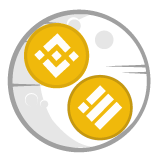
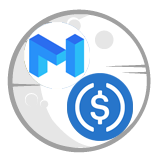
change for polygon

Changed region(s): [[0.125, 0.125, 0.8438, 0.9062]]

diff --git a/src/config/constants/farms.ts b/src/config/constants/farms.ts
@@ -3,33 +3,37 @@ import { FarmConfig, QuoteToken } from './types'
 
 const farms: FarmConfig[] = [
   {
-    pid: 0,
+    pid: 1,
     risk: 5,
-    lpSymbol: 'Mumu-BUSD LP',
+    lpSymbol: 'Mumu-USDC LP',
     lpAddresses: {
       97: '0x383489bD934B077Ac0b3A9325E73BF72D9835AdA',
       56: '0xA0B0923621b5CFa654145604E286CA813C3C661B',
+      137: '0x72B54aa780D88684A24F53C09D6f85645780fa31'
     },
     tokenSymbol: 'Mumu',
     tokenAddresses: {
       97: '0x47572493C7DD70653940Dff6444897712a007EDC',
       56: '0x3bdbbf63fbed8550dd630f67fc5e4c2ac4ddc42b',
+      137: '0xdBF2d59f590eD72e647d1ea1E99417995B9C9368'
     },
     quoteTokenSymbol: QuoteToken.BUSD,
     quoteTokenAddresses: contracts.busd,
   },
   {
-    pid: 1,
+    pid: 0,
     risk: 5,
-    lpSymbol: 'Mumu-BNB LP',
+    lpSymbol: 'Mumu-Matic LP',
     lpAddresses: {
       97: '0xa40f90E8e60928eB56FEa610D0591D776ab54CC6',
       56: '0xD99Caa5110Bf465B05cdef0690Db0771732d937F',
+      137: '0xcD67C60265f8EcC27fbc68595C26565F4FF41f4c'
     },
     tokenSymbol: 'Mumu',
     tokenAddresses: {
       97: '0x47572493C7DD70653940Dff6444897712a007EDC',
       56: '0x3bdbbf63fbed8550dd630f67fc5e4c2ac4ddc42b',
+      137: '0xdBF2d59f590eD72e647d1ea1E99417995B9C9368'
     },
     quoteTokenSymbol: QuoteToken.BNB,
     quoteTokenAddresses: contracts.wbnb,
@@ -37,15 +41,17 @@ const farms: FarmConfig[] = [
   {
     pid: 2,
     risk: 3,
-    lpSymbol: 'BNB-BUSD LP',
+    lpSymbol: 'Matic-USDC LP',
     lpAddresses: {
       97: '0xa79fe8865fb3c3c053ee63ba8b7f90dda5c3f334',
       56: '0x83166DaF1a93F7C8B31c4e09Cc85316a37dC2451',
+      137: '0x6e7a5FAFcec6BB1e78bAE2A1F0B612012BF14827'
     },
     tokenSymbol: 'BNB',
     tokenAddresses: {
       97: '0xae13d989dac2f0debff460ac112a837c89baa7cd',
       56: '0xbb4cdb9cbd36b01bd1cbaebf2de08d9173bc095c',
+      137: '0x0d500b1d8e8ef31e21c99d1db9a6444d3adf1270'
     },
     quoteTokenSymbol: QuoteToken.BUSD,
     quoteTokenAddresses: contracts.busd,
@@ -58,49 +64,17 @@ const farms: FarmConfig[] = [
     lpAddresses: {
       97: '0x383489bD934B077Ac0b3A9325E73BF72D9835AdA',
       56: '0xA0B0923621b5CFa654145604E286CA813C3C661B', // EGG-BUSD LP
+      137: '0x72B54aa780D88684A24F53C09D6f85645780fa31'
     },
     tokenSymbol: 'Mumu',
     tokenAddresses: {
       97: '0x47572493C7DD70653940Dff6444897712a007EDC',
       56: '0x3bdbbf63fbed8550dd630f67fc5e4c2ac4ddc42b',
+      137: '0xdBF2d59f590eD72e647d1ea1E99417995B9C9368'
     },
     quoteTokenSymbol: QuoteToken.BUSD,
     quoteTokenAddresses: contracts.busd,
-  },
-  {
-    pid: 4,
-    risk: 4,
-    isTokenOnly: true,
-    lpSymbol: 'BANANA',
-    lpAddresses: {
-      97: '',
-      56: '0x93f180636f42EFb0aD2BF7e0C945e2De652321c3', // BANANA-BUSD LP
-    },
-    tokenSymbol: 'BANANA',
-    tokenAddresses: {
-      97: '',
-      56: '0x603c7f932ed1fc6575303d8fb018fdcbb0f39a95',
-    },
-    quoteTokenSymbol: QuoteToken.BUSD,
-    quoteTokenAddresses: contracts.busd,
-  },
-  {
-    pid: 5,
-    risk: 4,
-    isTokenOnly: true,
-    lpSymbol: 'CAKE',
-    lpAddresses: {
-      97: '',
-      56: '0x0ed8e0a2d99643e1e65cca22ed4424090b8b7458', // CAKE-BUSD LP
-    },
-    tokenSymbol: 'CAKE',
-    tokenAddresses: {
-      97: '',
-      56: '0x0e09fabb73bd3ade0a17ecc321fd13a19e81ce82',
-    },
-    quoteTokenSymbol: QuoteToken.BUSD,
-    quoteTokenAddresses: contracts.busd,
-  },
+  }
 ]
 
 export default farms

diff --git a/src/state/farms/fetchFarms.ts b/src/state/farms/fetchFarms.ts
@@ -5,6 +5,7 @@ import multicall from 'utils/multicall'
 import { getMasterChefAddress } from 'utils/addressHelpers'
 import farmsConfig from 'config/constants/farms'
 import { QuoteToken } from '../../config/constants/types'
+import contracts from '../../config/constants/contracts'
 
 const CHAIN_ID = process.env.REACT_APP_CHAIN_ID
 
@@ -65,7 +66,12 @@ const fetchFarms = async () => {
         if(farmConfig.tokenSymbol === QuoteToken.BUSD && farmConfig.quoteTokenSymbol === QuoteToken.BUSD){
           tokenPriceVsQuote = new BigNumber(1);
         }else{
-          tokenPriceVsQuote = new BigNumber(quoteTokenBlanceLP).div(new BigNumber(tokenBalanceLP));
+          let quoteTokenBlanceLP1 = new BigNumber(quoteTokenBlanceLP);
+          if(quoteTokenDecimals < 18)
+          {
+            quoteTokenBlanceLP1 = quoteTokenBlanceLP1.times(new BigNumber(10).pow(18-quoteTokenDecimals));
+          }
+          tokenPriceVsQuote = new BigNumber(quoteTokenBlanceLP1).div(new BigNumber(tokenBalanceLP));
         }
         lpTotalInQuoteToken = tokenAmount.times(tokenPriceVsQuote);
       }else{
@@ -81,6 +87,7 @@ const fetchFarms = async () => {
 
         // Amount of token in the LP that are considered staking (i.e amount of token * lp ratio)
         tokenAmount = new BigNumber(tokenBalanceLP).div(new BigNumber(10).pow(tokenDecimals)).times(lpTokenRatio)
+
         const quoteTokenAmount = new BigNumber(quoteTokenBlanceLP)
           .div(new BigNumber(10).pow(quoteTokenDecimals))
           .times(lpTokenRatio)
@@ -88,7 +95,12 @@ const fetchFarms = async () => {
         if(tokenAmount.comparedTo(0) > 0){
           tokenPriceVsQuote = quoteTokenAmount.div(tokenAmount);
         }else{
-          tokenPriceVsQuote = new BigNumber(quoteTokenBlanceLP).div(new BigNumber(tokenBalanceLP));
+          let quoteTokenBlanceLP1 = new BigNumber(quoteTokenBlanceLP);
+          if(quoteTokenDecimals < 18)
+          {
+            quoteTokenBlanceLP1 = quoteTokenBlanceLP1.times(new BigNumber(10).pow(18-quoteTokenDecimals));
+          }
+          tokenPriceVsQuote = new BigNumber(quoteTokenBlanceLP1).div(new BigNumber(tokenBalanceLP));
         }
       }
 

diff --git a/src/config/constants/contracts.ts b/src/config/constants/contracts.ts
@@ -2,45 +2,56 @@ export default {
   cake: {
     56: '0x3bdbbf63fbed8550dd630f67fc5e4c2ac4ddc42b',
     97: '0x47572493C7DD70653940Dff6444897712a007EDC',
+    137: '0xdBF2d59f590eD72e647d1ea1E99417995B9C9368'
   },
   masterChef: {
     56: '0x7AF4e543609AbB95b4Cef53f9BDf6a5714B7e9D7',
     97: '0xC6e0DCDB10304dd3dC29748AccF45ED3B2e72D51',
+    137: '0xcbb649194068C95902456928C4007A3a1a69A6c7',
   },
   wbnb: {
     56: '0xbb4CdB9CBd36B01bD1cBaEBF2De08d9173bc095c',
     97: '0xae13d989dac2f0debff460ac112a837c89baa7cd',
+    137: '0x0d500b1d8e8ef31e21c99d1db9a6444d3adf1270'
   },
   lottery: {
     56: '0x3962139475af84199c54D8B4840Ac4600870Bb97',
     97: '0x1Bced8f36247bF555E8EA455327F425a8587C650',
+    137: '0x970658f76ea349f014AF01aE2b9b22DF4ca9281a'
   },
   lotteryNFT: {
     56: '0xC1Fc7fc0F89a1A4f0756b0A1DAe1217E0abBb159',
     97: '0x6cb680029D3d4DD59c26E3dfd4459788806d50B2',
+    137: '0xB3A8BE9c618631b5Cc215716AdaF2F0d8415f0d0'
   },
   mulltiCall: {
     56: '0x1ee38d535d541c55c9dae27b12edf090c608e6fb',
     97: '0x67ADCB4dF3931b0C5Da724058ADC2174a9844412',
+    137: '0x11ce4B23bD875D7F5C6a31084f55fDe1e9A87507'
   },
   busd: {
     56: '0xe9e7cea3dedca5984780bafc599bd69add087d56',
     97: '0xD500E3CF845CC41ABa54bB1dD426bD3485bD8Cd5',
+    137: '0x2791bca1f2de4661ed88a30c99a7a9449aa84174'
   },
   pancakepair1: {
     56: '0xD99Caa5110Bf465B05cdef0690Db0771732d937F',// TOKEN-BNB LP
     97: '0xa40f90E8e60928eB56FEa610D0591D776ab54CC6',
+    137: '0xcD67C60265f8EcC27fbc68595C26565F4FF41f4c'
   },
   pancakepair2: {
     56: '0xA0B0923621b5CFa654145604E286CA813C3C661B',// TOKEN-BUSD LP
     97: '0x383489bD934B077Ac0b3A9325E73BF72D9835AdA',
+    137: '0x72B54aa780D88684A24F53C09D6f85645780fa31'
   },
   referral: {
     56: '0xA73a2dc6BB3DB6FaaF156D45675eFd4849c8cc01',
     97: '0x8E5468F91cC6BFCfB6f1C5DF0b27263276084426',
+    137: '0x9A1fEcC39d9EdB8bE21F76EA0A95395FA4794cE1'
   },
   gettingtime: {
     56: '0xdE2488b53468eBF4aeF566719817dDe0231aF466',
     97: '0x61C4eC1435967BcE357069E876978E4c599EF90D',
+    137: '0x09eA1740fEb529BF84510BE8E693Be195c07C200'
   },
 }

diff --git a/src/views/Farms/components/FarmCard/DetailsSection.tsx b/src/views/Farms/components/FarmCard/DetailsSection.tsx
@@ -49,7 +49,7 @@ const DetailsSection: React.FC<ExpandableSectionProps> = ({
 }) => {
   const TranslateString = useI18n()
   const liquidityUrlPathParts = getLiquidityUrlPathParts({ quoteTokenAdresses, quoteTokenSymbol, tokenAddresses })
-  const buyUrl = (pid === -1?`https://exchange.pancakeswap.finance/#/add/${liquidityUrlPathParts}`:`https://trade.mumuswap.finance/#/add/${liquidityUrlPathParts}`)
+  const buyUrl = (pid === -1?`https://quickswap.exchange/#/add/${liquidityUrlPathParts}`:`https://quickswap.exchange/#/add/${liquidityUrlPathParts}`)
 
   return (
     <Wrapper>
@@ -57,7 +57,7 @@ const DetailsSection: React.FC<ExpandableSectionProps> = ({
         <Text>{TranslateString(316, 'Stake')}:</Text>
         <StyledLinkExternal href={
           isTokenOnly ?
-            `https://trade.mumuswap.finance/#/swap/${tokenAddresses[process.env.REACT_APP_CHAIN_ID]}`
+            `https://quickswap.exchange/#/swap/${tokenAddresses[process.env.REACT_APP_CHAIN_ID]}`
             :
           buyUrl
         }>
@@ -72,7 +72,7 @@ const DetailsSection: React.FC<ExpandableSectionProps> = ({
       )}
       <Flex justifyContent="center">
         <Link external href={bscScanAddress} bold={false}>
-          {TranslateString(356, 'View on BscScan')}
+          View on Polygon
         </Link>
       </Flex>
     </Wrapper>

diff --git a/src/views/Ifos/CurrentIfo.tsx b/src/views/Ifos/CurrentIfo.tsx
@@ -52,10 +52,10 @@ const Ifo = () => {
             <li>{TranslateString(598, 'Get CAKE-BNB LP tokens by adding CAKE and BNB liquidity')}</li>
           </List>
           <Flex mb="16px">
-            <LinkExternal href="https://trade.mumuswap.finance/#/swap" mr="16px">
+            <LinkExternal href="https://quickswap.exchange/#/swap" mr="16px">
               {TranslateString(999, 'Buy cake')}
             </LinkExternal>
-            <LinkExternal href="https://trade.mumuswap.finance/#/add/ETH/0x0E09FaBB73Bd3Ade0a17ECC321fD13a19e81cE82">
+            <LinkExternal href="https://quickswap.exchange/#/add/ETH/0x0E09FaBB73Bd3Ade0a17ECC321fD13a19e81cE82">
               {TranslateString(999, 'Get LP tokens')}
             </LinkExternal>
           </Flex>

diff --git a/src/views/Farms/components/FarmCard/FarmCard.tsx b/src/views/Farms/components/FarmCard/FarmCard.tsx
@@ -225,9 +225,9 @@ const FarmCard: React.FC<FarmCardProps> = ({ farm, removed, cakePrice, bnbPrice,
           isTokenOnly={farm.isTokenOnly}
           bscScanAddress={
             farm.isTokenOnly ?
-              `https://bscscan.com/token/${farm.tokenAddresses[process.env.REACT_APP_CHAIN_ID]}`
+              `https://polygonscan.com/token/${farm.tokenAddresses[process.env.REACT_APP_CHAIN_ID]}`
               :
-              `https://bscscan.com/token/${farm.lpAddresses[process.env.REACT_APP_CHAIN_ID]}`
+              `https://polygonscan.com/token/${farm.lpAddresses[process.env.REACT_APP_CHAIN_ID]}`
           }
           totalValueFormated={totalValueFormated}
           lpLabel={lpLabel}

diff --git a/src/components/Menu/config.ts b/src/components/Menu/config.ts
@@ -23,11 +23,11 @@ const config: MenuEntry[] = [
     items: [
       {
         label: 'Exchange',
-        href: 'https://trade.mumuswap.finance/#/swap'
+        href: 'https://quickswap.exchange/#/swap'
       },
       {
         label: 'Liquidity',
-        href: 'https://trade.mumuswap.finance/#/pool'
+        href: 'https://quickswap.exchange/#/pool'
       }
     ]
   },
@@ -69,7 +69,7 @@ const config: MenuEntry[] = [
     items: [
       {
         label: 'BscScan',
-        href: 'https://bscscan.com/address/'.concat(getCakeAddress()),
+        href: 'https://polygonscan.com/address/'.concat(getCakeAddress()),
       }
     ],
   },

diff --git a/src/views/Lottery/components/WinningNumbers.tsx b/src/views/Lottery/components/WinningNumbers.tsx
@@ -57,7 +57,7 @@ const WinningNumbers: React.FC = () => {
                 </CenteredTextWithPadding>
               </RowNoPadding>
             </Column>
-            <Link href="https://bscscan.com/" target="_blank" style={{color:colors.primary,fontSize:"16px",textAlign:"center" }}>
+            <Link href="https://polygonscan.com/" target="_blank" style={{color:colors.primary,fontSize:"16px",textAlign:"center" }}>
               {TranslateString(448, 'Export recent winning numbers')}
             </Link>
           </StyledCardContentInner>

diff --git a/src/views/Home/components/LPWorth.tsx b/src/views/Home/components/LPWorth.tsx
@@ -51,7 +51,7 @@ const LPWorth = () => {
       <div style={{width: "80%",margin: "0 auto", marginTop: "3em"}}>
       <ItemDiv>
         <LabelDiv>
-          Mumu-BNB
+          Mumu-Matic
         </LabelDiv>
         <ValueDiv>
           ${ showlpprice1 !== 'NaN'?showlpprice1:0 }
@@ -60,7 +60,7 @@ const LPWorth = () => {
       </ItemDiv>
         <ItemDiv>
           <LabelDiv>
-            Mumu-BUSD
+            Mumu-USDC
           </LabelDiv>
           <ValueDiv>
             ${ showlpprice2 !== 'NaN'?showlpprice2:0 }

diff --git a/src/views/Ifos/components/IfoCard/IfoCardTime.tsx b/src/views/Ifos/components/IfoCard/IfoCardTime.tsx
@@ -49,7 +49,7 @@ const IfoCardTime: React.FC<IfoCardTimeProps> = ({ isLoading, status, secondsUnt
   return (
     <Details>
       <Countdown>{`${timeUntil.days}d, ${timeUntil.hours}h, ${timeUntil.minutes}m until ${suffix}`}</Countdown>
-      <Link href={`https://bscscan.com/block/countdown/${block}`} target="blank" rel="noopener noreferrer" ml="8px">
+      <Link href={`https://polygonscan.com/block/countdown/${block}`} target="blank" rel="noopener noreferrer" ml="8px">
         (blocks)
       </Link>
     </Details>

diff --git a/src/api/lottery/singleLottery.ts b/src/api/lottery/singleLottery.ts
@@ -40,7 +40,7 @@ export const Lottery = async (
     lotteryNumbers: numbers1.map((x) => Number(x)),
     poolSize: ceilDecimal(poolSize, 2),
     burned: ceilDecimal((poolSize / 100) * ratesToUse.burn, 2),
-    contractLink: `https://bscscan.com/address/${LOTTERY_CONTRACT}`,
+    contractLink: `https://polygonscan.com/address/${LOTTERY_CONTRACT}`,
     jackpotTicket: numbers2[1] / ticketPrice,
     match3Ticket: numbers2[2] / ticketPrice,
     match2Ticket: numbers2[3] / ticketPrice,

diff --git a/src/config/constants/types.ts b/src/config/constants/types.ts
@@ -18,7 +18,16 @@ export interface Ifo {
   tokenDecimals: number
   releaseBlockNumber: number
 }
-
+/*
+export enum QuoteToken {
+  'BNB' = 'BNB',
+  'CAKE' = 'CAKE',
+  'SYRUP' = 'SYRUP',
+  'BUSD' = 'BUSD',
+  'TWT' = 'TWT',
+  'UST' = 'UST',
+}
+*/
 export enum QuoteToken {
   'BNB' = 'BNB',
   'CAKE' = 'CAKE',
@@ -36,7 +45,8 @@ export enum PoolCategory {
 
 export interface Address {
   97?: string
-  56: string
+  56: string,
+  137?: string
 }
 
 export interface FarmConfig {
